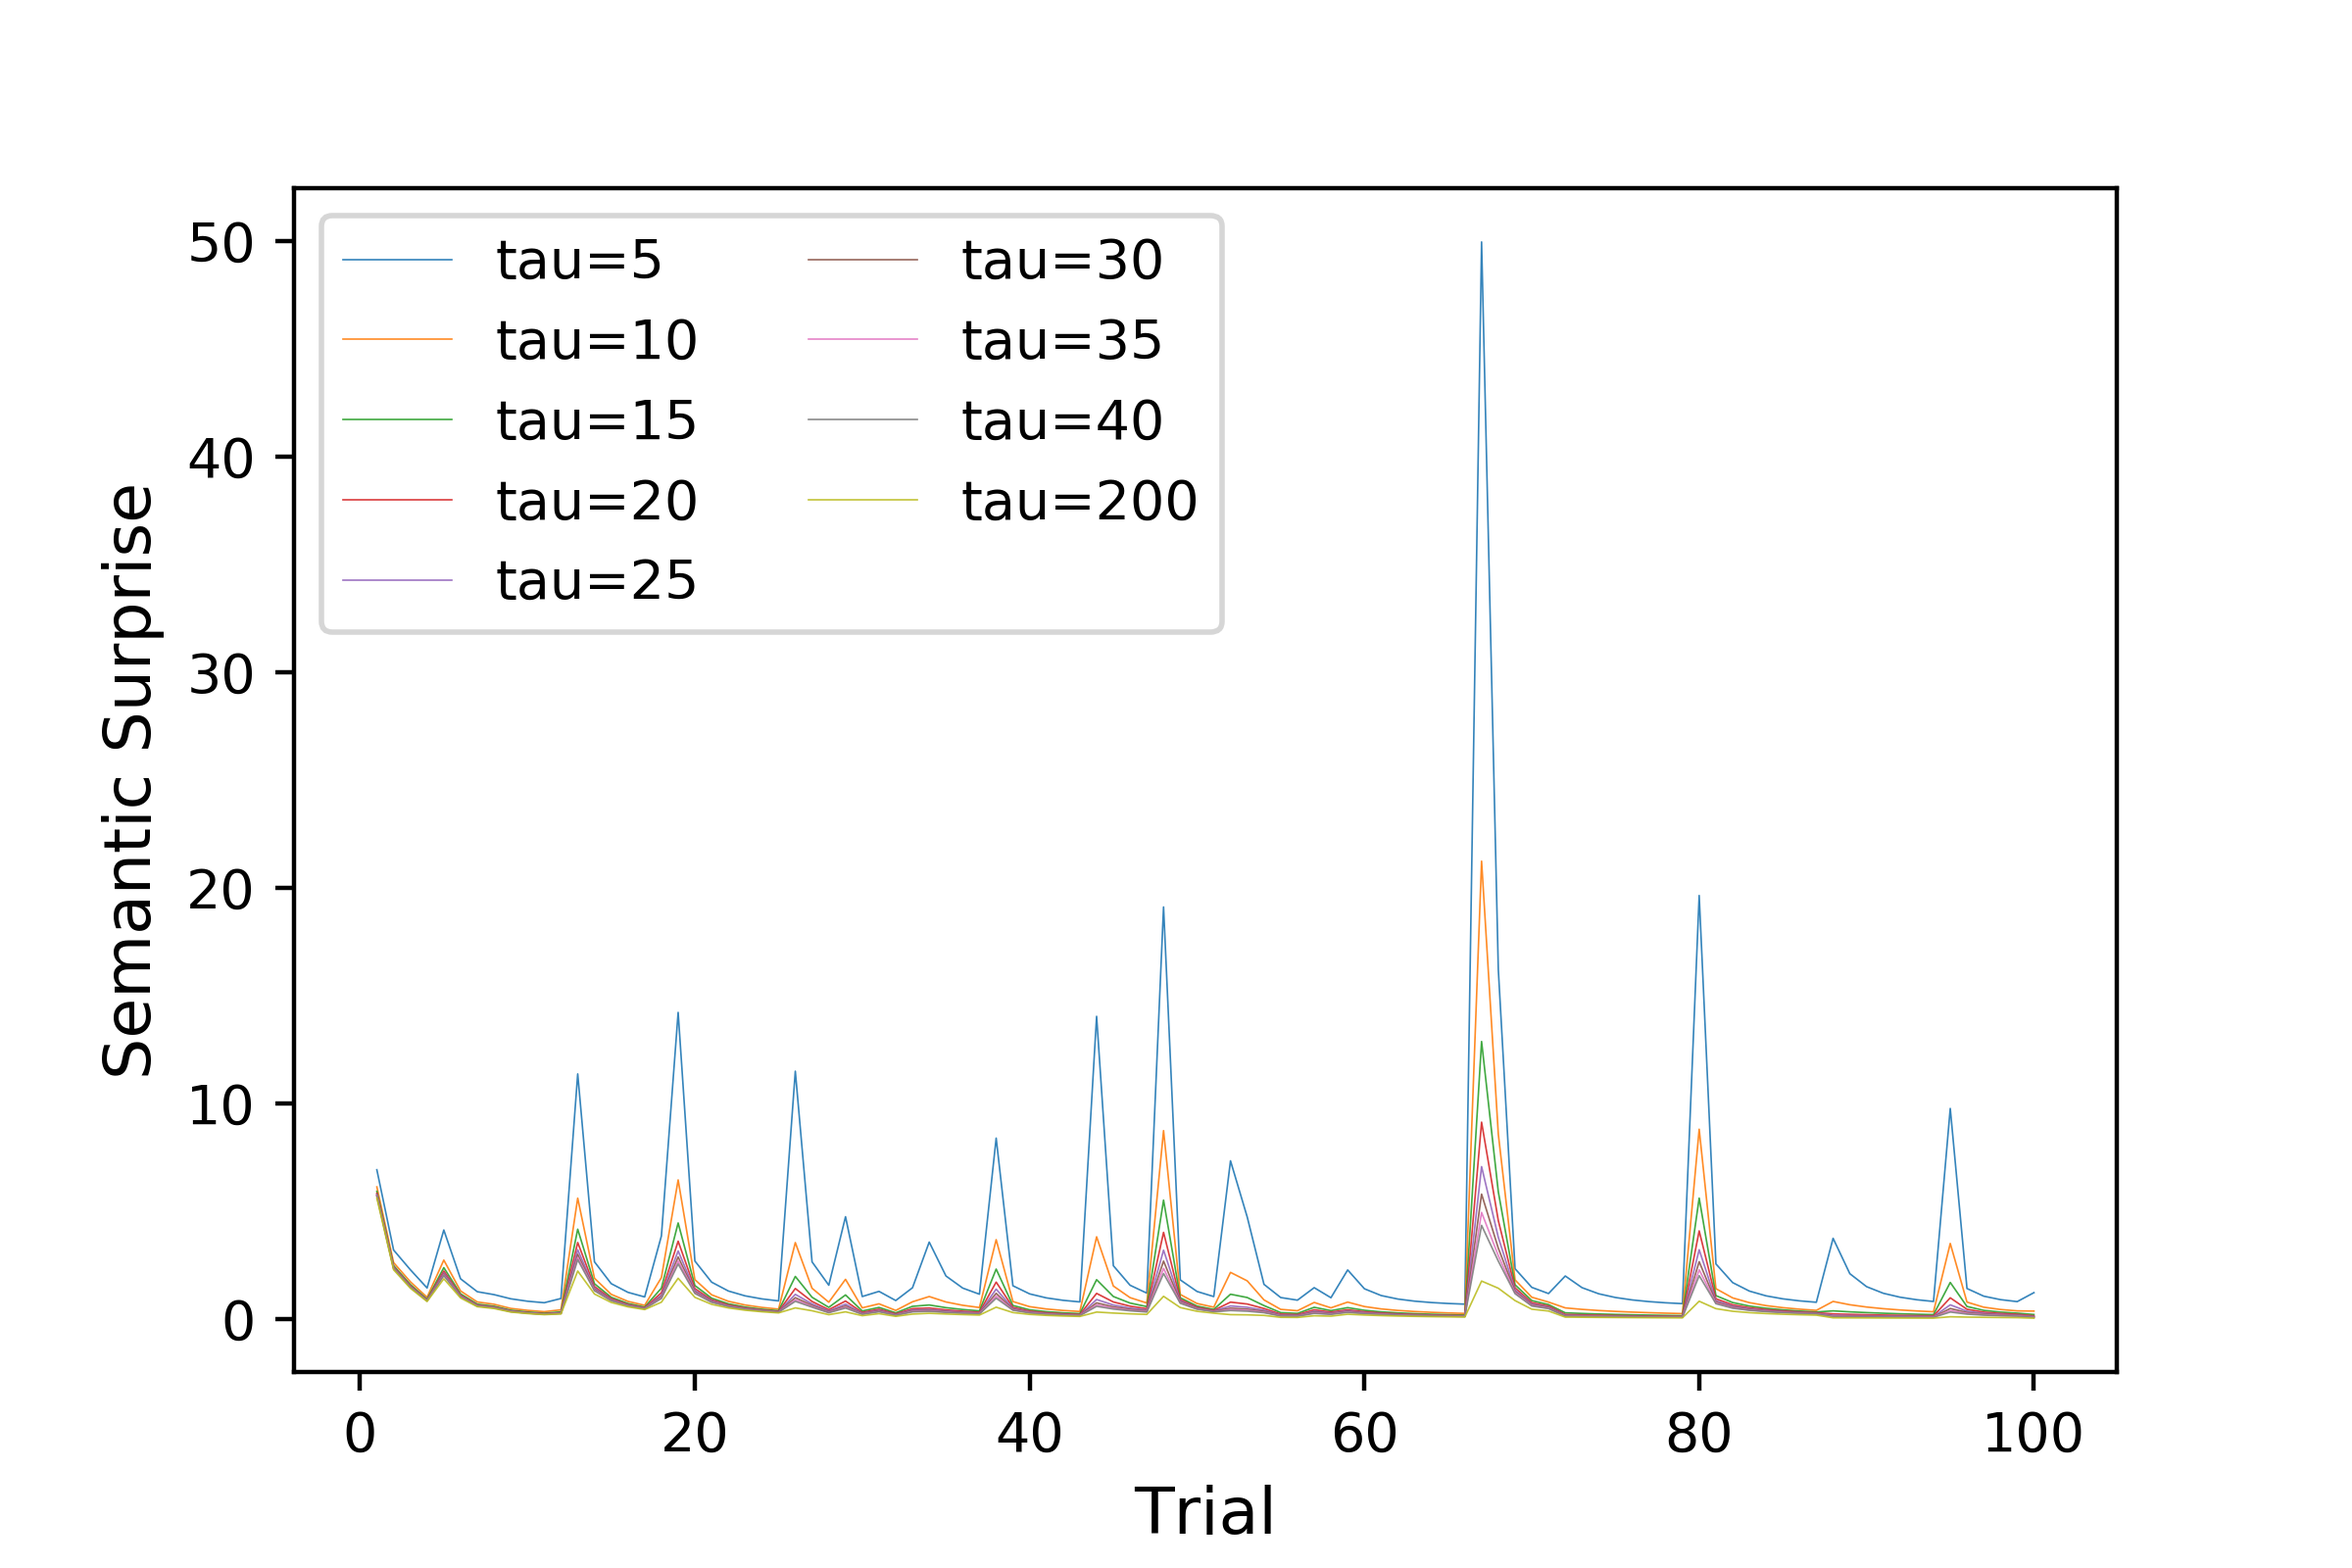
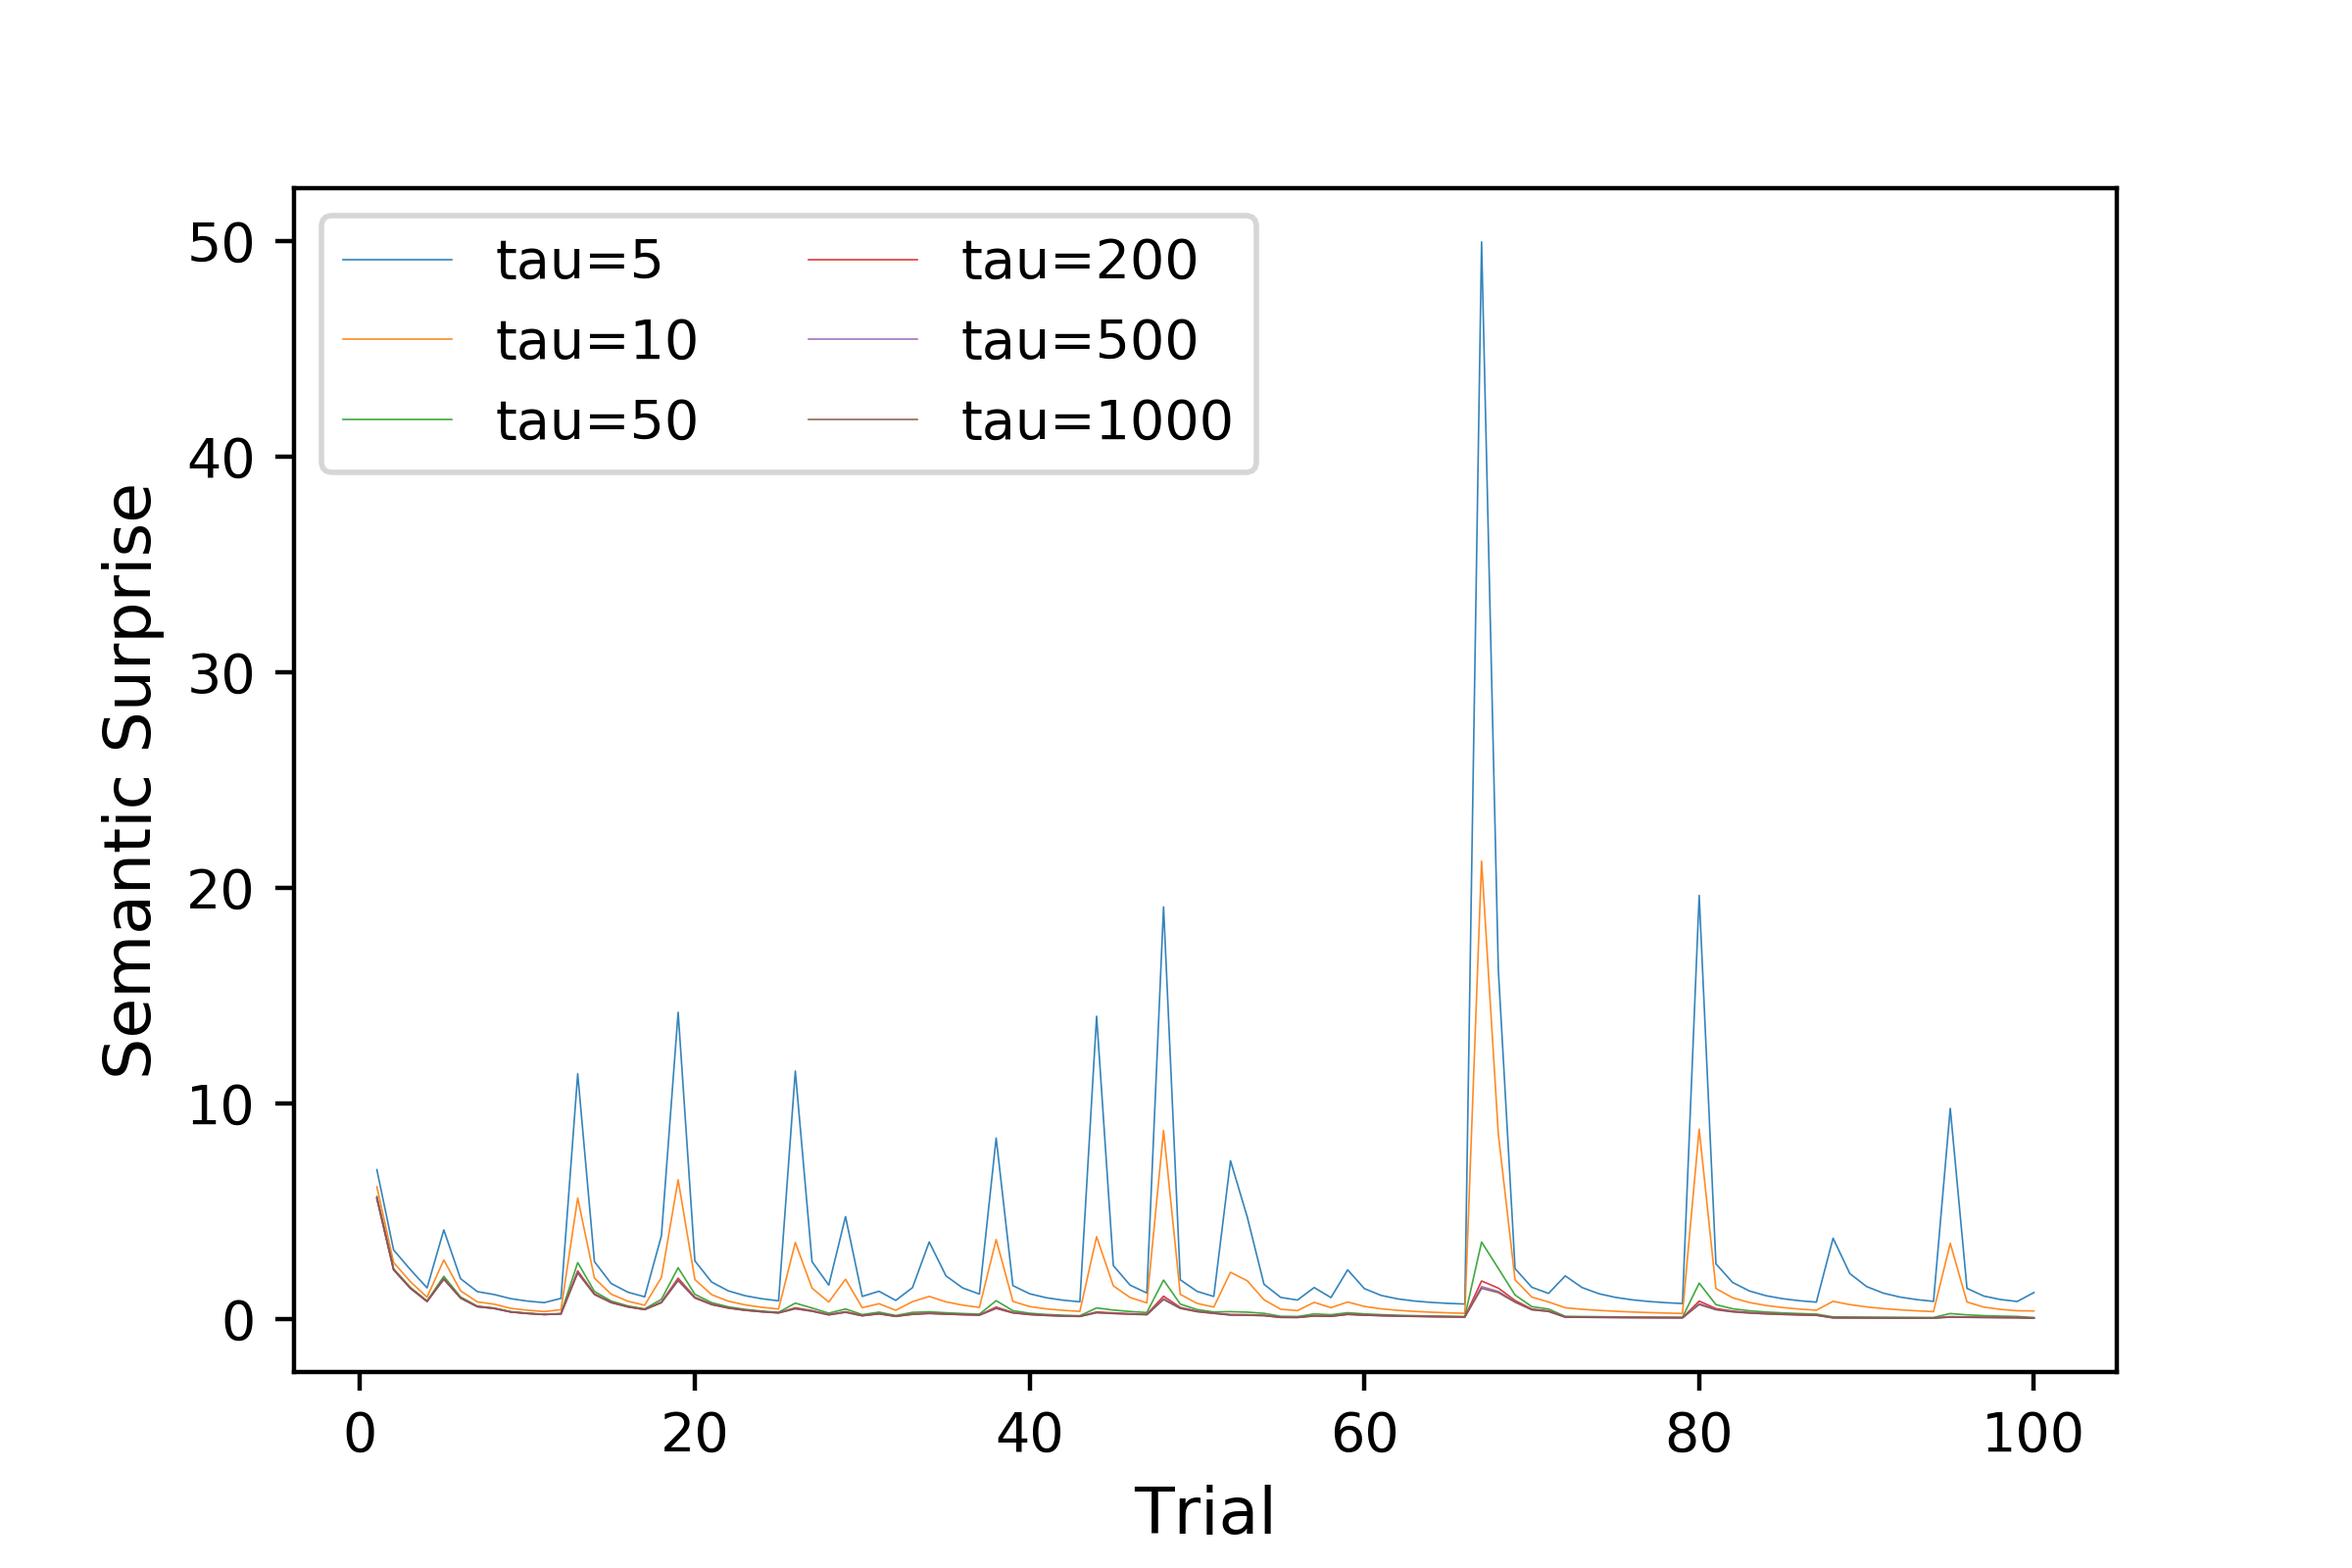
updated

Changed region(s): [[0.125, 0.125, 0.5312, 0.4062], [0.1875, 0.7188, 0.875, 0.8438]]

diff --git a/plot_tau.py b/plot_tau.py
@@ -14,7 +14,7 @@ from BayesianUpdating import BayesianUpdating
 
 os.chdir("/Users/ringelblume/Desktop/GitHub/Bayesian_Modeling/")
 
-taurange = np.array([5,10,15,20,25,30,35,40,200])
+taurange = np.array([5,10,50,200,500,1000])
 subj = 1
 ntrials = 100 # Set number of example trials to be used for plotting
 alpha0 = 1 # Set uniform priors
